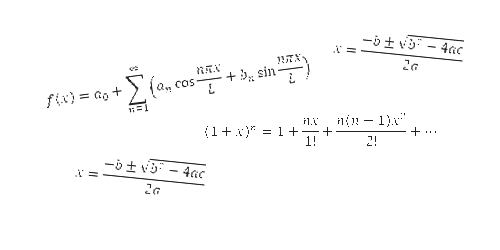
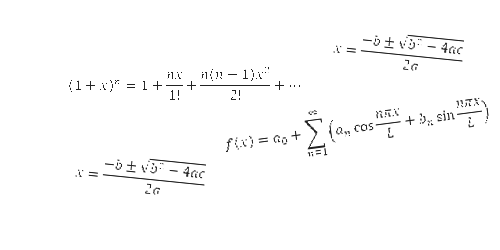
added second calculator

diff --git a/formler.html b/formler.html
@@ -8,6 +8,7 @@
 		<LINK REL="SHORTCUT ICON" HREF="img/logo.png">
 	</head>
 	<body>
+<!--header-->
 		<div id="header">
 			<div id="nav">
 				<div id ="but1" class="navbut"><a href="index.html">Hjem</a></div>
@@ -20,7 +21,7 @@
 				<img src="img/logo.png" id="logo">
 			</div>
 		</div>
-
+<!--background on page + intro-->
 		<div id="back">
 			<img src="img/formel collage.png" id="img1">
 			<h1 id="overskr">Formler</h1>
@@ -35,9 +36,14 @@
 			</div>
 
 			<div class="sidesep" id="sep2"> </div>
-
+<!--Formel for strømstyrke afsnit-->
 			<h1 class="underov">Formel for str&oslash;mstyrke "I"</h1>
 			¨<h1 class="underov" id="formel">Formel: I = Q/t</h1>
+
+			<img src="img/formel collage.png" id="img3">
+			<!--<img src="img/formel collage2.png" id="img4">-->
+			<!--<img src="img/formel collage3.png" id="img5">-->
+			<img src="img/formel collage4.png" id="img6">
 
 			<form id="formel_strmstyrke" onkeypress='return event.charCode >= 48 && event.charCode <= 57 || event.charCode == 44'><span>
 				Str&oslash;mstyrke:<br>
@@ -50,6 +56,30 @@
 				<input type="text" name="t" class="field"> i sekunder (t)!
 			</span></form>
 			<button type="button" id="sub1" name="sub1">Udregn</button>
+
+			<div class="sidesep" id="sep3"> </div>
+<!--Formel for effekt afsnit-->
+						<h1 class="underov" id="uo2">Formel for Effekt "P"</h1>
+			¨<h1 class="underov" id="formel2">Formel: P = U * I</h1>
+
+			<img src="img/formel collage.png" id="img7">
+			<!--<img src="img/formel collage2.png" id="img8">-->
+			<!--<img src="img/formel collage3.png" id="img9">-->
+			<img src="img/formel collage4.png" id="img10">
+
+			<form id="formel_effekt" onkeypress='return event.charCode >= 48 && event.charCode <= 57 || event.charCode == 44'><span>
+				Effekt:<br>
+				<input type="text" name="P" class="field"> i watt (P)!
+				<br>
+				Sp&aelig;ndningsforskel:<br>
+				<input type="text" name="U" class="field"> i volt (U)!
+				<br>
+				Str&oslash;mstyrke:<br>
+				<input type="text" name="I" class="field"> i ampere (I)!
+			</span></form>
+			<button type="button" id="sub2" name="sub1">Udregn</button>
+
+			<div class="sidesep" id="sep4"> </div>
 
 		</div>
 

diff --git a/css/formler.css b/css/formler.css
@@ -25,6 +25,14 @@
 	top: 390px;
 }
 
+#sep3 {
+	top: 885px;
+}
+
+#sep4 {
+	top: 1370px;
+}
+
 #img1 {
 	display: inline-block;
 	width: 400px;
@@ -47,6 +55,93 @@
 
 }
 
+#img3 {
+	display: inline-block;
+	width: 400px;
+	height: 200px;
+	margin-right: 30px;
+	top: 420px;
+	position: absolute;
+	left: 20px;
+}
+
+#img4 {
+	display: inline-block;
+	width: 400px;
+	height: 200px;
+	margin-left: 30px;
+	top: 420px;
+	position: absolute;
+	float: right;
+	right: 20px;
+
+}
+
+#img5 {
+	display: inline-block;
+	width: 400px;
+	height: 200px;
+	margin-right: 30px;
+	top: 640px;
+	position: absolute;
+	left: 20px;
+}
+
+#img6 {
+	display: inline-block;
+	width: 400px;
+	height: 200px;
+	margin-left: 30px;
+	top: 640px;
+	position: absolute;
+	float: right;
+	right: 20px;
+}
+
+#img7 {
+	display: inline-block;
+	width: 400px;
+	height: 200px;
+	margin-right: 30px;
+	top: 905px;
+	position: absolute;
+	left: 20px;
+}
+
+#img8 {
+	display: inline-block;
+	width: 400px;
+	height: 200px;
+	margin-left: 30px;
+	top: 905px;
+	position: absolute;
+	float: right;
+	right: 20px;
+
+}
+
+#img9 {
+	display: inline-block;
+	width: 400px;
+	height: 200px;
+	margin-right: 30px;
+	top: 1125px;
+	position: absolute;
+	left: 20px;
+}
+
+#img10 {
+	display: inline-block;
+	width: 400px;
+	height: 200px;
+	margin-left: 30px;
+	top: 1125px;
+	position: absolute;
+	float: right;
+	right: 20px;
+
+
+}
 #textbox {
 	position: absolute;
 	width: 80%;
@@ -69,6 +164,11 @@
 	left: 34.5%;
 }
 
+#uo2 {
+	top: 945px;
+	left: 37%;
+}
+
 #formel {
 	font-size: 32px;
 	top: 505px;
@@ -76,8 +176,21 @@
 	left: 42%;
 }
 
+#formel2 {
+	top: 990px;
+	font-size: 32px;
+	font-weight: 500;
+	left: 40%;
+}
+
 #formel_strmstyrke {
 	top: 570px;
+	position: absolute;
+	left: 36%;
+}
+
+#formel_effekt {
+	top: 1055px;
 	position: absolute;
 	left: 36%;
 }
@@ -97,6 +210,14 @@ span {
 	width: 150px;
 	height: 45px;
 	top: 780px; left: 39%;
+	position: absolute;
+	font-size: 25px;
+}
+
+#sub2 {
+	width: 150px;
+	height: 45px;
+	top: 1265px; left: 39%;
 	position: absolute;
 	font-size: 25px;
 }

diff --git a/css/base.css b/css/base.css
@@ -79,5 +79,5 @@
 #back {
 	background-color: #FFF8A6;
 	width: 100%;
-	min-height: 1000px;
+	min-height: 1400px;
 }
